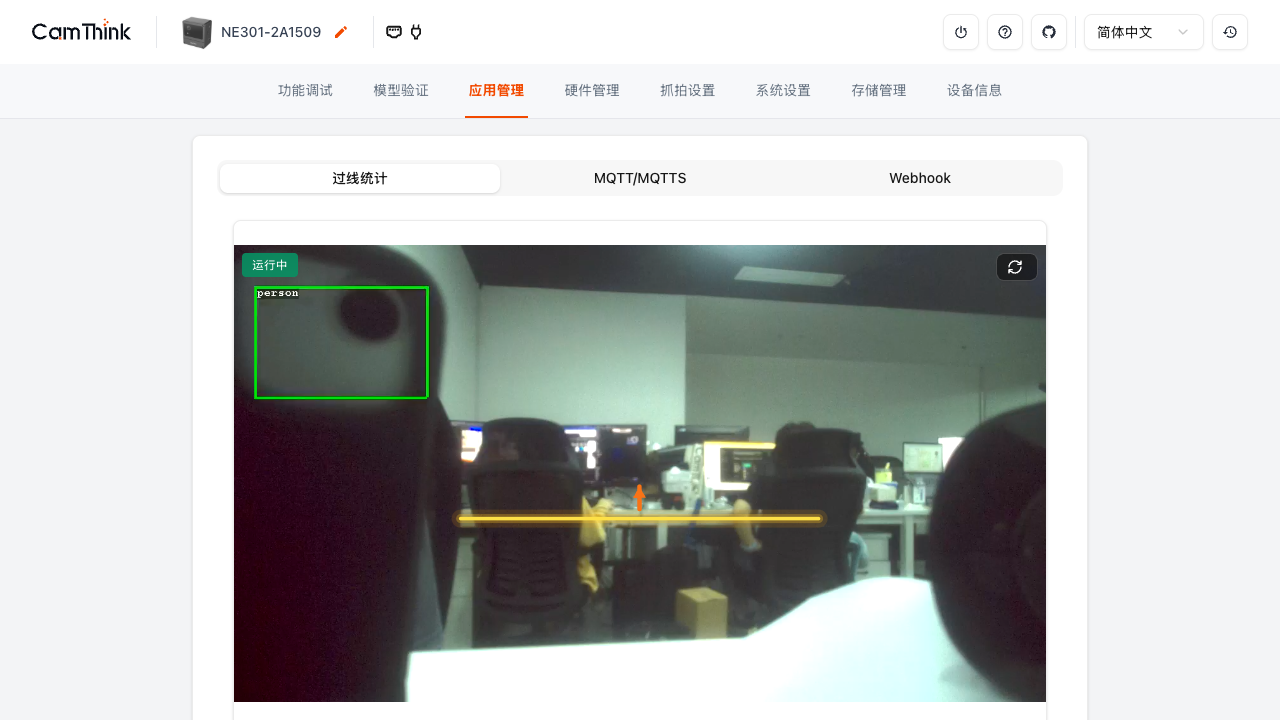
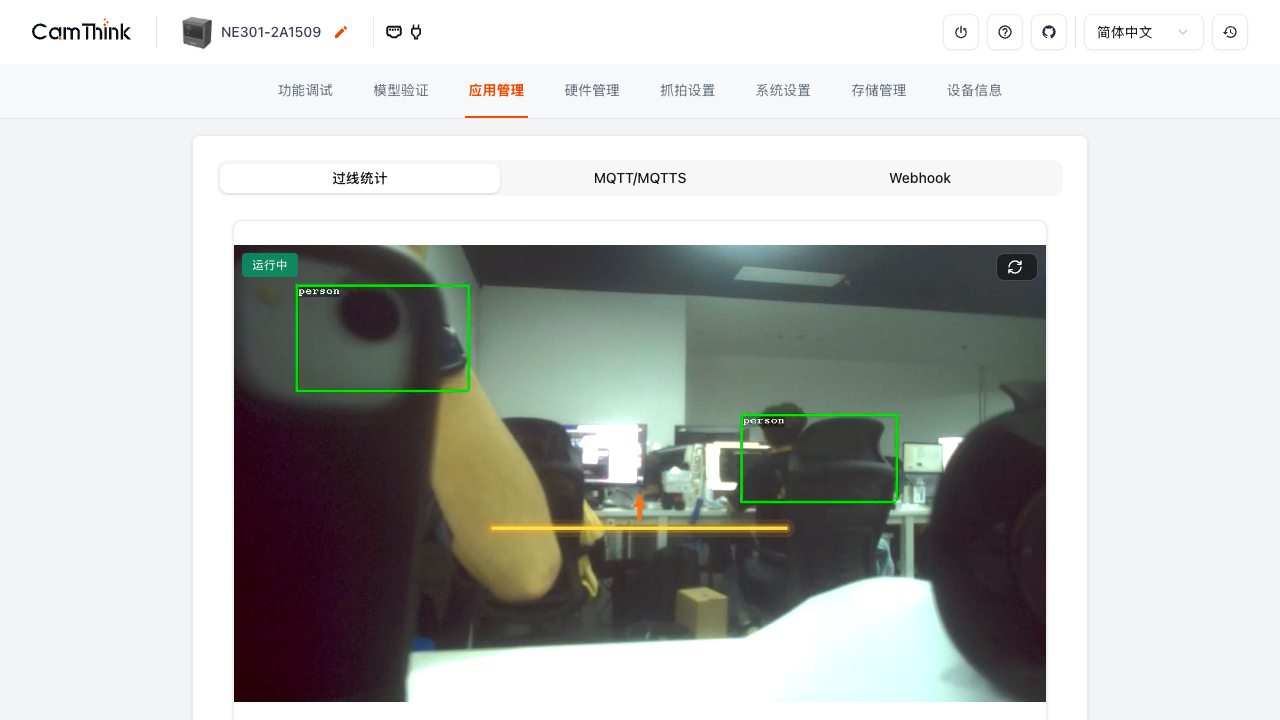
fix(web): preview only the draft counting line during draw and save

Changed region(s): [[0.1875, 0.3972, 0.7188, 0.9472], [0.7812, 0.5194, 0.8125, 0.5806], [0.3125, 0.3361, 0.3438, 0.3667]]

diff --git a/Web/src/pages/applicationManagement/lineCounting/VideoPreview.tsx b/Web/src/pages/applicationManagement/lineCounting/VideoPreview.tsx
@@ -103,27 +103,17 @@ export default function VideoPreview({
     const { w, h } = size;
     const p2px = (permille: number, dim: number) => (permille / 1000) * dim;
     const lineDirty = !!config && !!draft && JSON.stringify(draft.line) !== JSON.stringify(config.line);
-    const primary = editMode || lineDirty || !config ? draft ?? config : config;
-    const hasLine = !!primary && (
-        primary.line.x1 !== primary.line.x2 || primary.line.y1 !== primary.line.y2
+    const effective = draft ?? config;
+    const hasLine = !!effective && (
+        effective.line.x1 !== effective.line.x2 || effective.line.y1 !== effective.line.y2
     );
-    const draftHasLine = !!draft && (
-        draft.line.x1 !== draft.line.x2 || draft.line.y1 !== draft.line.y2
-    );
-    const showActiveLine = lineDirty && !!config && (
-        config.line.x1 !== config.line.x2 || config.line.y1 !== config.line.y2
-    ) && draftHasLine;
-    const showOverlay = (config?.enable || editMode || lineDirty) && w > 0 && h > 0;
-    const x1 = primary ? p2px(primary.line.x1, w) : 0;
-    const y1 = primary ? p2px(primary.line.y1, h) : 0;
-    const x2 = primary ? p2px(primary.line.x2, w) : 0;
-    const y2 = primary ? p2px(primary.line.y2, h) : 0;
-    const ox = primary ? p2px(primary.line.outside_x, w) : 0;
-    const oy = primary ? p2px(primary.line.outside_y, h) : 0;
-    const ax1 = config ? p2px(config.line.x1, w) : 0;
-    const ay1 = config ? p2px(config.line.y1, h) : 0;
-    const ax2 = config ? p2px(config.line.x2, w) : 0;
-    const ay2 = config ? p2px(config.line.y2, h) : 0;
+    const showOverlay = (effective?.enable || editMode) && w > 0 && h > 0;
+    const x1 = effective ? p2px(effective.line.x1, w) : 0;
+    const y1 = effective ? p2px(effective.line.y1, h) : 0;
+    const x2 = effective ? p2px(effective.line.x2, w) : 0;
+    const y2 = effective ? p2px(effective.line.y2, h) : 0;
+    const ox = effective ? p2px(effective.line.outside_x, w) : 0;
+    const oy = effective ? p2px(effective.line.outside_y, h) : 0;
 
     const mx = (x1 + x2) / 2;
     const my = (y1 + y2) / 2;
@@ -195,13 +185,6 @@ export default function VideoPreview({
                                 )}
                             </g>
                         ))}
-                        {showActiveLine && (
-                            <g data-testid="lc-active-line">
-                                <line x1={ax1} y1={ay1} x2={ax2} y2={ay2} stroke="#f59e0b" strokeWidth={18} strokeOpacity={0.10} strokeLinecap="round" />
-                                <line x1={ax1} y1={ay1} x2={ax2} y2={ay2} stroke="#fbbf24" strokeWidth={9} strokeOpacity={0.22} strokeLinecap="round" />
-                                <line x1={ax1} y1={ay1} x2={ax2} y2={ay2} stroke="#fde047" strokeWidth={3} strokeLinecap="round" />
-                            </g>
-                        )}
                         {hasLine && (
                             <g data-testid="lc-line">
                                 <line x1={x1} y1={y1} x2={x2} y2={y2} stroke="#f59e0b" strokeWidth={18} strokeOpacity={0.14} strokeLinecap="round" />

diff --git a/Web/src/services/api/line-counting.ts b/Web/src/services/api/line-counting.ts
@@ -114,26 +114,26 @@ function lineUiToWire(line: LineCountingLine): LineCountingLine {
     };
 }
 
-async function postConfigWithRetry(body: LineCountingConfig & { line: LineCountingLine }, attempt: number): Promise<unknown> {
+async function requestWithRetry<T>(fn: () => Promise<T>, attempt: number): Promise<T> {
     try {
-        return await request.post(`${BASE}/config`, body, { skipErrorToast: true } as never);
+        return await fn();
     } catch (e) {
         const errorCode = (e as { data?: { error_code?: string } })?.data?.error_code;
         if (errorCode !== 'UNAUTHORIZED' || attempt >= 2) throw e;
         await new Promise((resolve) => {
             setTimeout(resolve, attempt === 0 ? 1200 : 2600);
         });
-        return postConfigWithRetry(body, attempt + 1);
+        return requestWithRetry(fn, attempt + 1);
     }
 }
 
 const lineCounting = {
     getConfig: async () => {
-        const res = await request.get(`${BASE}/config`);
+        const res = await requestWithRetry(() => request.get(`${BASE}/config`), 0);
         if (res.data?.line) res.data = { ...res.data, line: lineWireToUi(res.data.line) };
         return res;
     },
-    setConfig: (data: LineCountingConfig) => postConfigWithRetry({ ...data, line: lineUiToWire(data.line) }, 0),
+    setConfig: (data: LineCountingConfig) => requestWithRetry(() => request.post(`${BASE}/config`, { ...data, line: lineUiToWire(data.line) }, { skipErrorToast: true } as never), 0),
     getStatus: () => request.get(`${BASE}/status`),
     getStats: () => request.get(`${BASE}/stats`),
     getEvents: () => request.get(`${BASE}/events`),

diff --git a/Web/src/test/lineCountingPage.test.tsx b/Web/src/test/lineCountingPage.test.tsx
@@ -360,7 +360,7 @@ describe('video overlay', () => {
     heightSpy.mockRestore();
   });
 
-  it('keeps the unsaved draft line visible next to the saved line after finishing draw', () => {
+  it('shows only the unsaved draft line (dashed) after finishing draw, no saved line residue', () => {
     const widthSpy = vi.spyOn(HTMLElement.prototype, 'clientWidth', 'get').mockReturnValue(800);
     const heightSpy = vi.spyOn(HTMLElement.prototype, 'clientHeight', 'get').mockReturnValue(450);
     const draftCfg: LineCountingConfig = {
@@ -383,9 +383,11 @@ describe('video overlay', () => {
     container.querySelector('video')?.dispatchEvent(
       new Event('loadedmetadata', { bubbles: true }),
     );
-    expect(screen.getByTestId('lc-active-line')).toBeInTheDocument();
     expect(screen.getByTestId('lc-line')).toBeInTheDocument();
     expect(screen.getByTestId('lc-line').innerHTML).toContain('14 10');
+    expect(screen.queryByTestId('lc-active-line')).not.toBeInTheDocument();
+    expect(screen.getByTestId('lc-line').querySelectorAll('line')).toHaveLength(3);
+    expect(container.querySelectorAll('[data-testid=lc-overlay] line')).toHaveLength(4);
     widthSpy.mockRestore();
     heightSpy.mockRestore();
   });
